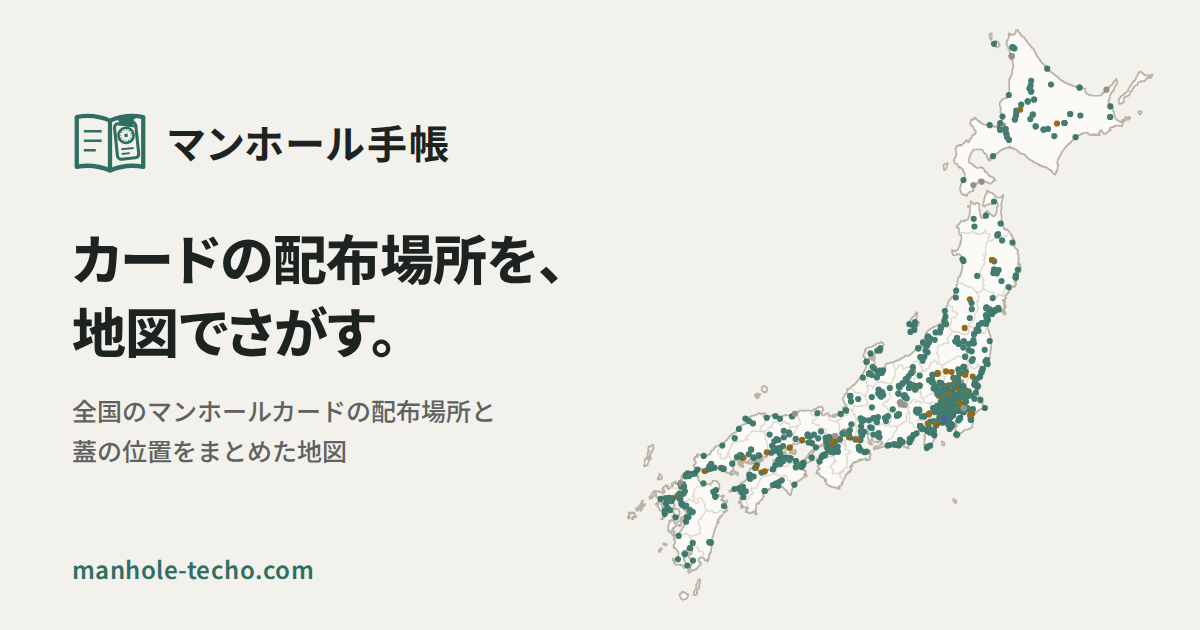
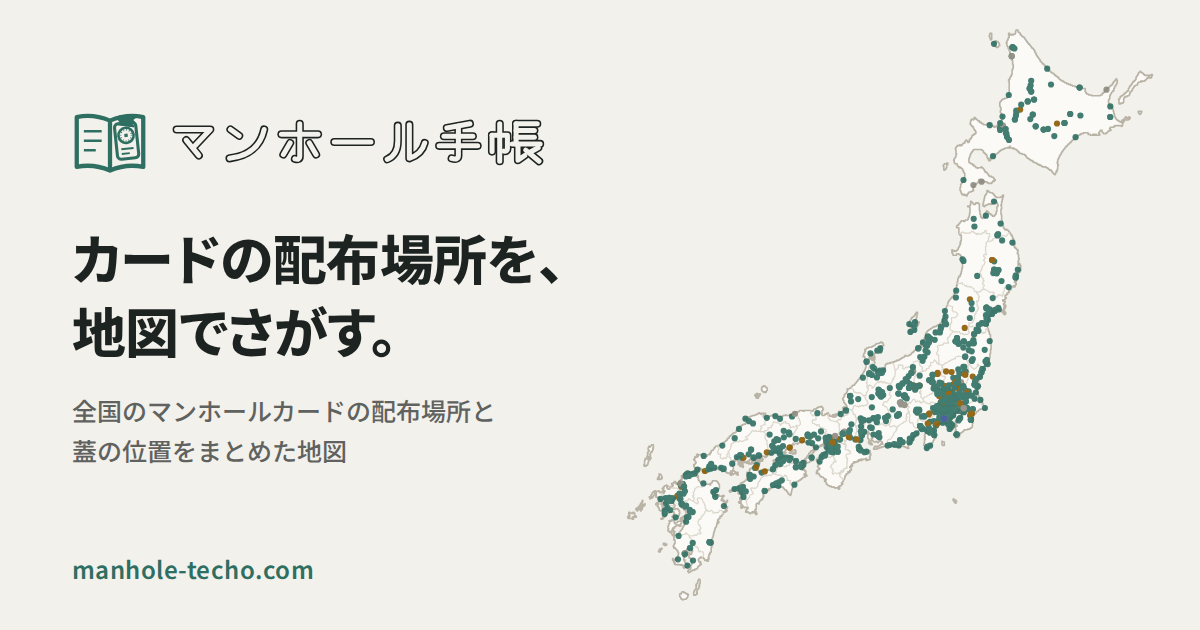
feat(brand): 題字「マンホール手帳」を描き起こし、about・ヘッダー・OG画像に使う

Changed region(s): [[0.1233, 0.181, 0.4625, 0.2714]]

diff --git a/web/src/shared/ui/logo.tsx b/web/src/shared/ui/logo.tsx
@@ -1,3 +1,5 @@
+import { WORDMARK_GLYPHS, WORDMARK_VIEW_BOX } from "./wordmark-paths";
+
 export function Logo({
   size = 32,
   incomplete = false,
@@ -93,10 +95,40 @@ export function Logo({
     </svg>
   );
 }
-export function Wordmark() {
+/**
+ * The site's name as drawn lettering (wordmark-paths.ts), with the name as
+ * text for whoever does not see the drawing. Outlined, the letters are faces
+ * with a line around them, as the hands and cards of the about page's
+ * drawings; small, the header's are solid so that they stay legible.
+ */
+export function Wordmark({ outlined = false }: { outlined?: boolean }) {
+  const strokes = WORDMARK_GLYPHS.map(([offset, paths]) => (
+    <g key={offset} transform={`translate(${offset})`}>
+      {paths.map((d) => (
+        <path key={d} d={d} />
+      ))}
+    </g>
+  ));
   return (
     <span className="wordmark">
-      マンホール<span>手帳</span>
+      <span className="wordmark-text">マンホール手帳</span>
+      <svg
+        width="784"
+        height="104"
+        viewBox={WORDMARK_VIEW_BOX}
+        fill="none"
+        stroke="currentColor"
+        strokeLinecap="round"
+        strokeLinejoin="round"
+        aria-hidden="true"
+      >
+        <g strokeWidth={outlined ? 17 : 12}>{strokes}</g>
+        {outlined && (
+          <g className="wordmark-face" strokeWidth="10.5">
+            {strokes}
+          </g>
+        )}
+      </svg>
     </span>
   );
 }

diff --git a/web/src/shared/ui/wordmark-paths.ts b/web/src/shared/ui/wordmark-paths.ts
@@ -1,0 +1,34 @@
+/*
+ * 「マンホール手帳」 drawn as lettering: one stroke per line of a character,
+ * on a 100-unit height. Shared by the page (logo.tsx) and the share image
+ * (scripts/generate-seo-images.mjs).
+ */
+export const WORDMARK_GLYPHS: readonly (readonly [
+  offset: number,
+  strokes: readonly string[],
+])[] = [
+  [0, ["M14 24H84L48 62", "M34 46L60 78"]],
+  [110, ["M16 24L34 37", "M14 84C52 80 78 60 86 24"]],
+  [220, ["M12 34H88", "M50 12V80q0 8-10 5", "M30 52L16 76", "M70 52L84 76"]],
+  [330, ["M12 50H88"]],
+  [440, ["M34 16V48C34 68 27 80 12 86", "M58 14V84C76 78 86 68 90 52"]],
+  [550, ["M74 12L26 21", "M20 38H80", "M10 58H90", "M50 17V78q0 10-14 6"]],
+  [
+    660,
+    [
+      "M26 12V90",
+      "M10 36V70",
+      "M10 36H42V64q0 6-7 5",
+      "M60 12V54",
+      "M60 12H104",
+      "M60 26H98",
+      "M60 40H98",
+      "M52 54H110",
+      "M64 54V88L78 78",
+      "M106 62L88 72",
+      "M80 67L108 90",
+    ],
+  ],
+];
+/** The drawing's box, with room for the stroke around the letters. */
+export const WORDMARK_VIEW_BOX = "-4 -2 784 104";

diff --git a/web/src/shared/ui/tokens.css b/web/src/shared/ui/tokens.css
@@ -158,12 +158,30 @@ button,
   color: var(--iron);
 }
 .wordmark {
-  letter-spacing: 0.04em;
-  font-weight: 700;
-  font-feature-settings: "palt";
+  position: relative;
+  display: inline-block;
 }
-.wordmark span {
-  font-weight: 500;
+.wordmark svg {
+  display: block;
+  inline-size: auto;
+  block-size: 1.15em;
+}
+.wordmark-face {
+  stroke: var(--paper);
+}
+/* The name stays for assistive technology and for copying. */
+.wordmark-text {
+  position: absolute;
+  inline-size: 1px;
+  block-size: 1px;
+  overflow: hidden;
+  clip-path: inset(50%);
+  white-space: nowrap;
+}
+@media (forced-colors: active) {
+  .wordmark-face {
+    stroke: Canvas;
+  }
 }
 @media (prefers-reduced-motion: reduce) {
   button,

diff --git a/web/src/pages/about/about-page.tsx b/web/src/pages/about/about-page.tsx
@@ -1,3 +1,4 @@
+import { Wordmark } from "../../shared/ui/logo";
 import { SiteHeader } from "../../shared/ui/site-header";
 import { ReceiveArt, VisitArt } from "./about-art";
 import { AboutLid } from "./about-lid";
@@ -40,9 +41,7 @@ export function AboutPage({ summary }: { summary?: AboutSummary | undefined }) {
             <AboutLid />
             <div className="about-title">
               <h1>
-                マンホール
-                <wbr />
-                手帳
+                <Wordmark outlined />
               </h1>
               <p className="about-sr-only">受け取って、訪ねる。</p>
               <p className="about-catch" aria-hidden="true">

diff --git a/web/src/pages/about/about.css b/web/src/pages/about/about.css
@@ -22,12 +22,20 @@
   color: var(--iron);
 }
 .about-title h1 {
-  font-weight: 700;
-  font-size: var(--text-28);
-  line-height: 1.4;
   margin: 0;
-  writing-mode: horizontal-tb;
-  word-break: keep-all;
+  font-size: var(--text-28);
+  line-height: 1;
+  color: var(--iron);
+}
+/* The drawn name: as wide as the column allows, and it grows with the text. */
+.about-title h1 .wordmark,
+.about-title h1 .wordmark svg {
+  display: block;
+}
+.about-title h1 .wordmark svg {
+  inline-size: min(100%, 19rem);
+  block-size: auto;
+  margin-inline: auto;
 }
 .about-page p {
   margin: 16px 0;

diff --git a/web/src/pages/about/phase-five.dom.test.tsx b/web/src/pages/about/phase-five.dom.test.tsx
@@ -5,7 +5,10 @@ import { AboutPage } from "./about-page";
 afterEach(cleanup);
 it("h1は1つで、装飾は支援技術から隠す", () => {
   const { container } = render(<AboutPage />);
-  expect(screen.getAllByRole("heading", { level: 1 })).toHaveLength(1);
+  // The name is drawn; the heading still says it.
+  expect(screen.getByRole("heading", { level: 1 }).textContent).toBe(
+    "マンホール手帳",
+  );
   expect(container.querySelectorAll(".about-sr-only")).toHaveLength(1);
   expect(
     container.querySelector(".about-catch")?.getAttribute("aria-hidden"),

diff --git a/web/README.md b/web/README.md
@@ -266,7 +266,7 @@ History API への書き込み（`pushState`・`replaceState`・`back`）と pop
 
 地図・一覧・about・404・アカウント・規約の6つのHTMLにtitle・description・canonical・OGPを置く（フレンド・招待はtitleとnoindexだけ）。地図の枚数プレースホルダーはViteのabout-data-summaryで公開データの全カード数へ置換する（fixtureはfixtureData）。同じプラグインが一覧の `data-catalog-summary` を県ごとの枚数（`data-catalog-totals`）と基準日（`data-evaluated-at`）へ置き換える（`domain/catalog-summary.ts`）。地図と一覧のHTMLには、ページの `fetch()` と同じURL・同じcredentials（`crossorigin`）の `<link rel="preload" as="fetch">` をViteのcard-data-preloadが入れ、JSの実行を待たずにデータの取得を始める。地図は `pins.json`、一覧は `full.json`。地図の HTML には、Vite の map-chunk-preload が地図の生成までの束（`app`・`map-screen`・`card-map`・MapLibre とその静的 import）の `<link rel="modulepreload">` と、その CSS の `<link rel="preload" as="style">` を入れる。これらは動的 import の連鎖の後ろで見つかるので、HTML の解釈の時点で取得を始める。MapLibre の module worker は Chromium が先読みできない（`as="worker"` を無効として二重に取る）ので入れない。同じく basemap-preconnect が、地図のスタイルとタイルの配信元への `<link rel="preconnect" crossorigin>` を入れる。配信元は `VITE_MAP_STYLE_URL`（未設定なら mapcn の CARTO 明色スタイル）のオリジンで、CARTO ならタイルの `tiles.basemaps.cartocdn.com` も足す。fixture の無地のスタイルはサイト自身のものなので入れない。これらはほかのページには入れない（`check-deploy.mjs` の最初の表示の検査）。canonicalとサイト内リンクは拡張子なしURLにそろえる。旧来の `.html` URL は本番の307リダイレクトで引き続き使える。404・アカウント・規約はnoindex。WebSiteとWebApplicationのJSON-LDはindex.htmlに置く。
 
-OG画像・apple-touch-icon・manifestはpublic/の管理対象で、Viteのseo-assetsが配信先に配置する。画像の再生成はweb/で次を実行する。既存ロゴのパスとローカルのNoto Sans JPを使い、本文への画像・フォント追加は行わない。OG画像の右側は、陸地（`scripts/og-outline.json`。作り方は `tools/map/README.md`）と県境（`src/pref-borders.json`）の上に、生成済みの `public/data/pins.json` の配布場所を状態の色で打ったもの。本州・北海道・四国・九州の範囲だけを描く。データを作ってから実行する。
+OG画像・apple-touch-icon・manifestはpublic/の管理対象で、Viteのseo-assetsが配信先に配置する。画像の再生成はweb/で次を実行する。既存ロゴのパス、題字のパス（`src/shared/ui/wordmark-paths.ts`。about の見出しとヘッダーの題字と同じもの）、ローカルのNoto Sans JPを使い、本文への画像・フォント追加は行わない。OG画像の右側は、陸地（`scripts/og-outline.json`。作り方は `tools/map/README.md`）と県境（`src/pref-borders.json`）の上に、生成済みの `public/data/pins.json` の配布場所を状態の色で打ったもの。本州・北海道・四国・九州の範囲だけを描く。データを作ってから実行する。
 
 ```sh
 mise exec -- node scripts/generate-seo-images.mjs
